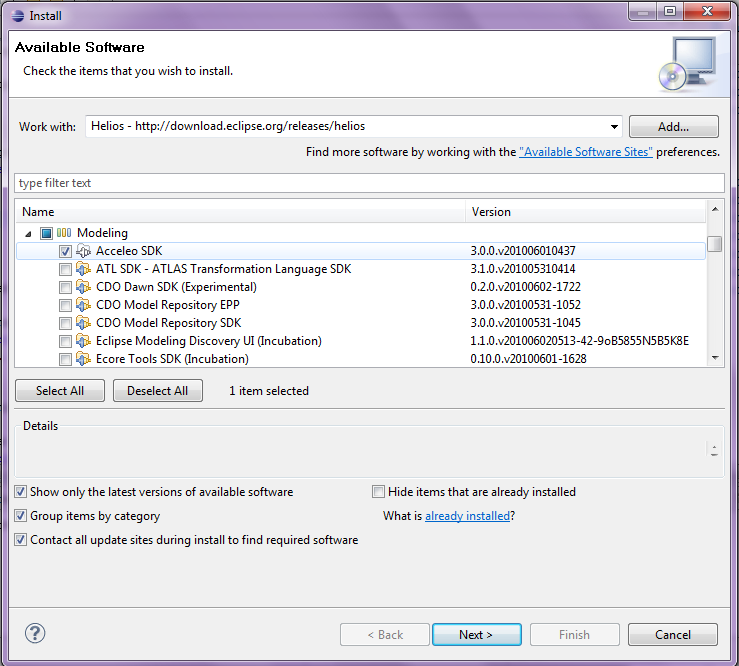
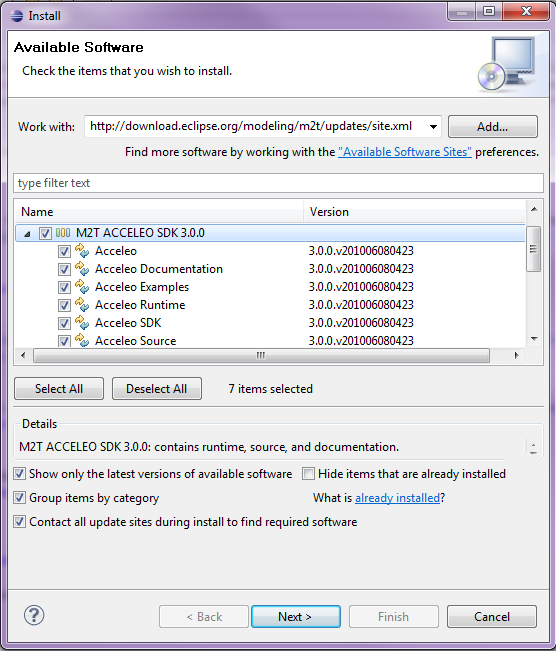
Changing update site instructions

Changed region(s): [[0.0, 0.0, 1.0, 1.0], [0.3363, 0.9217, 0.3975, 0.9524]]

diff --git a/download/_index.html b/download/_index.html
@@ -42,7 +42,10 @@
 		<img src="../images/install_1.png" alt="Install New Software..."/>
 	</li>
 	<li>
-		In the upper part, select the Helios Update site, then tick <i>"Acceleo SDK"</i> in the lower
+		In the upper part, click <i>Add</i> and type in the location <i>http://download.eclipse.org/modeling/m2t/updates/site.xml</i>
+	</li>
+	<li>
+		Select this new update site in the combo box and tick <i>Acceleo</i> in the lower
 		panel, such as shown below.<br/>
 		<img src="../images/install_2.png" alt="Install Acceleo"/>
 	</li>
